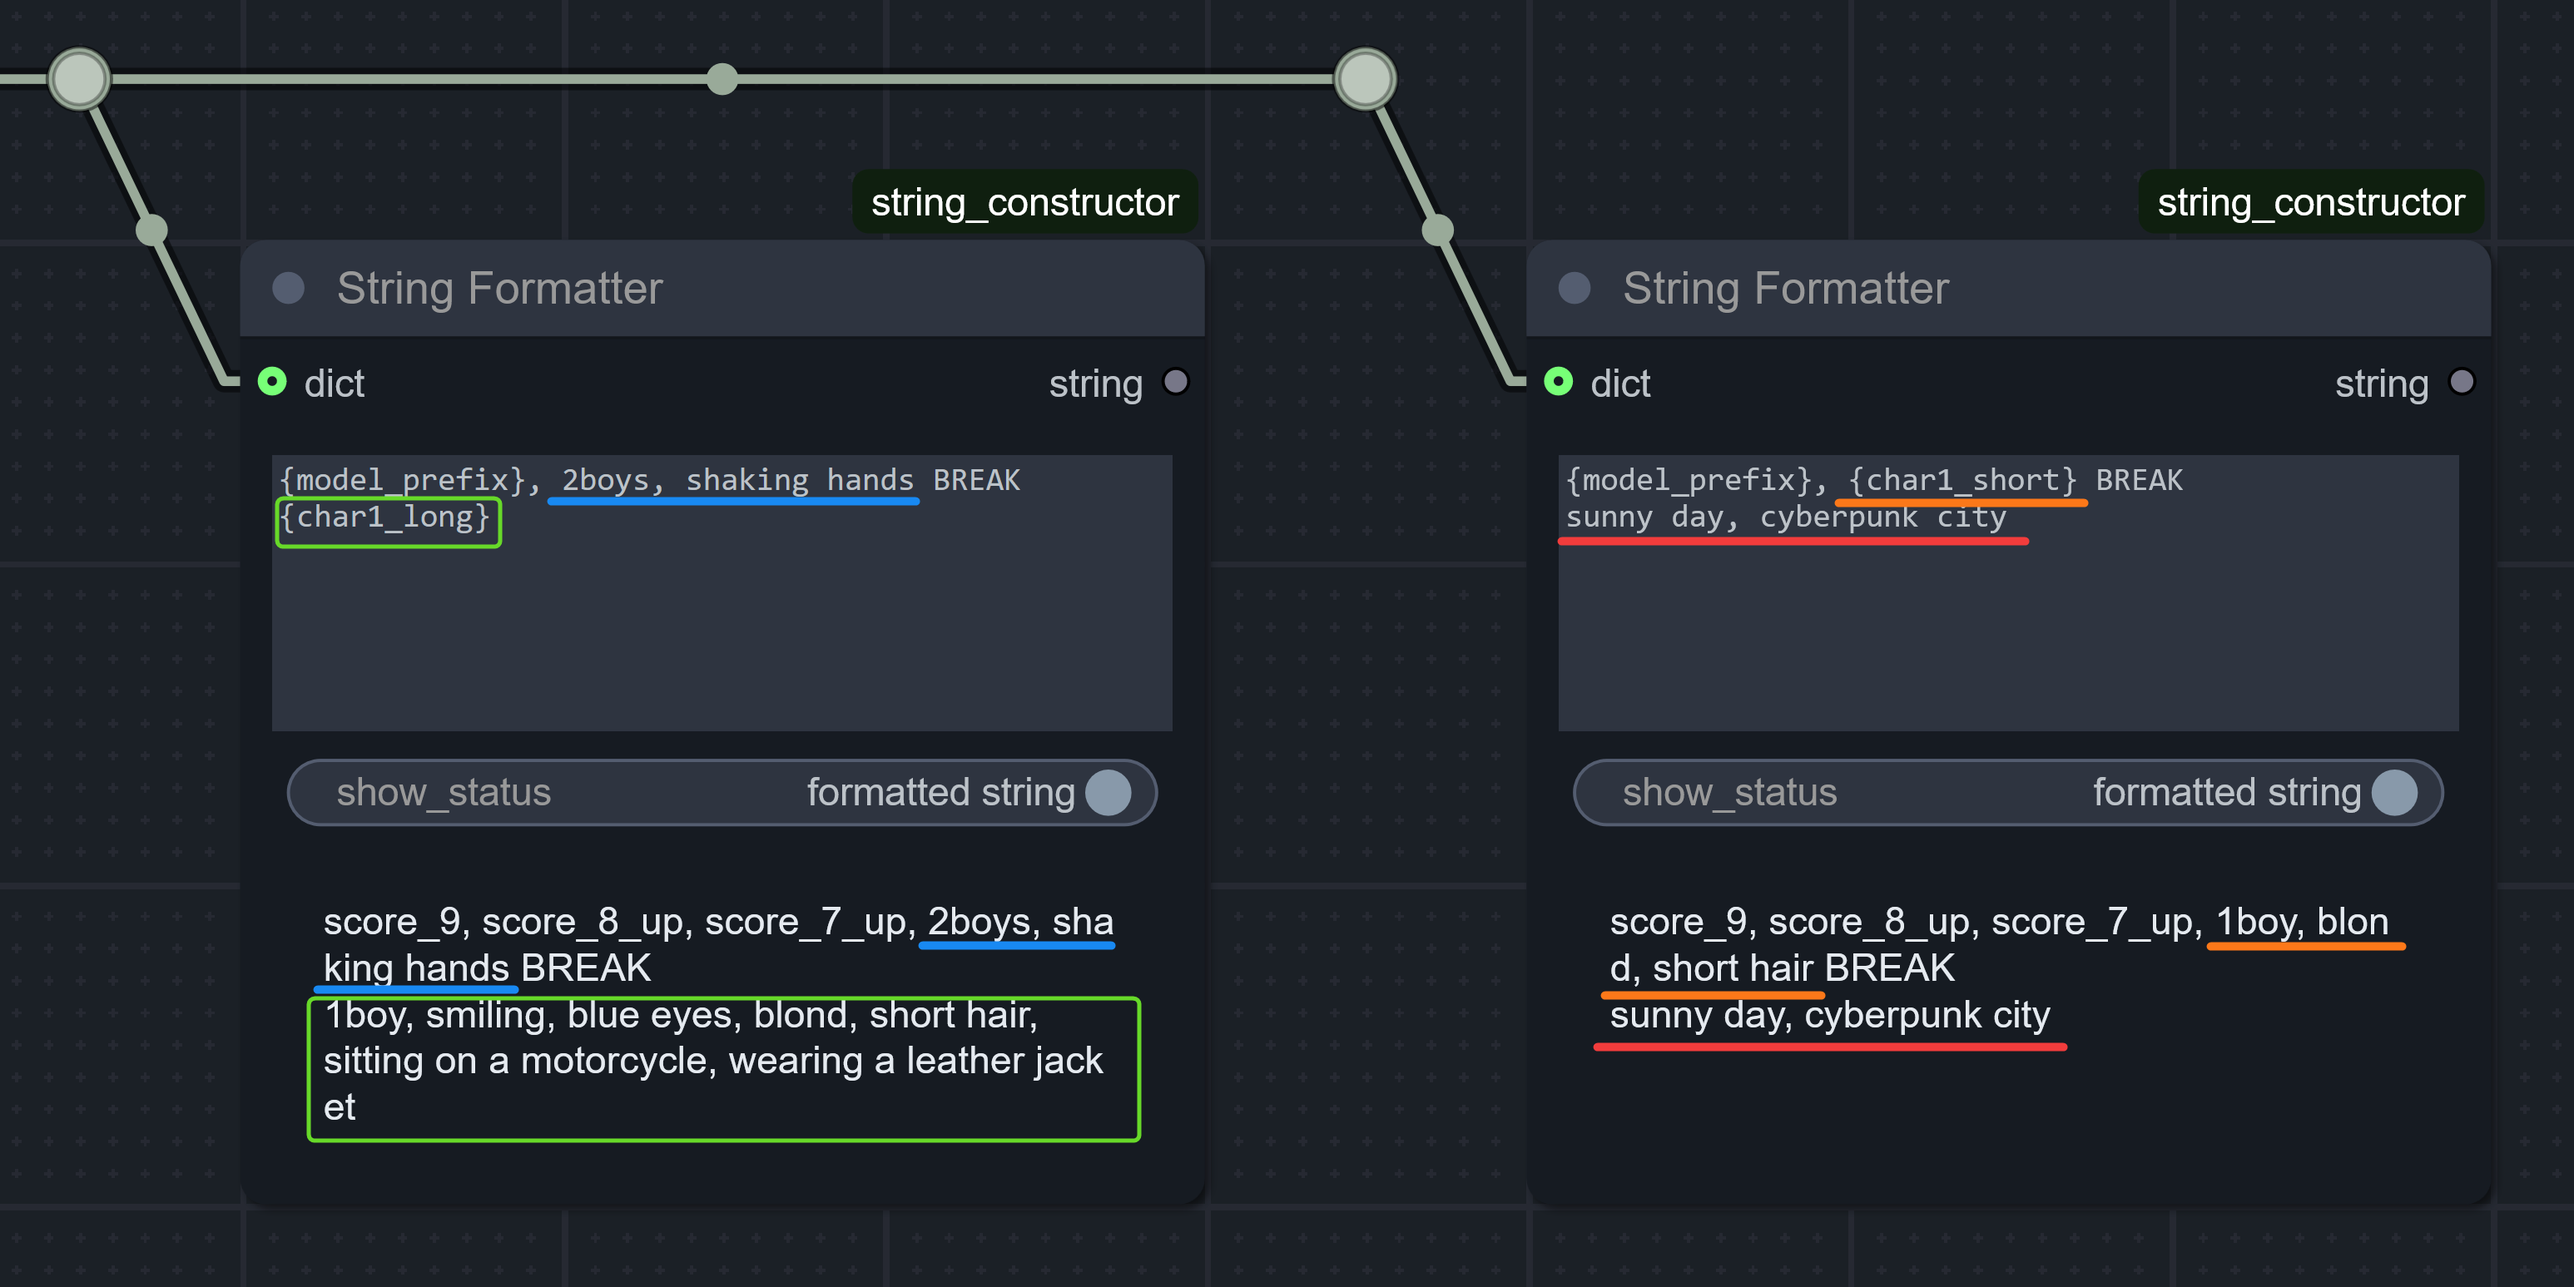
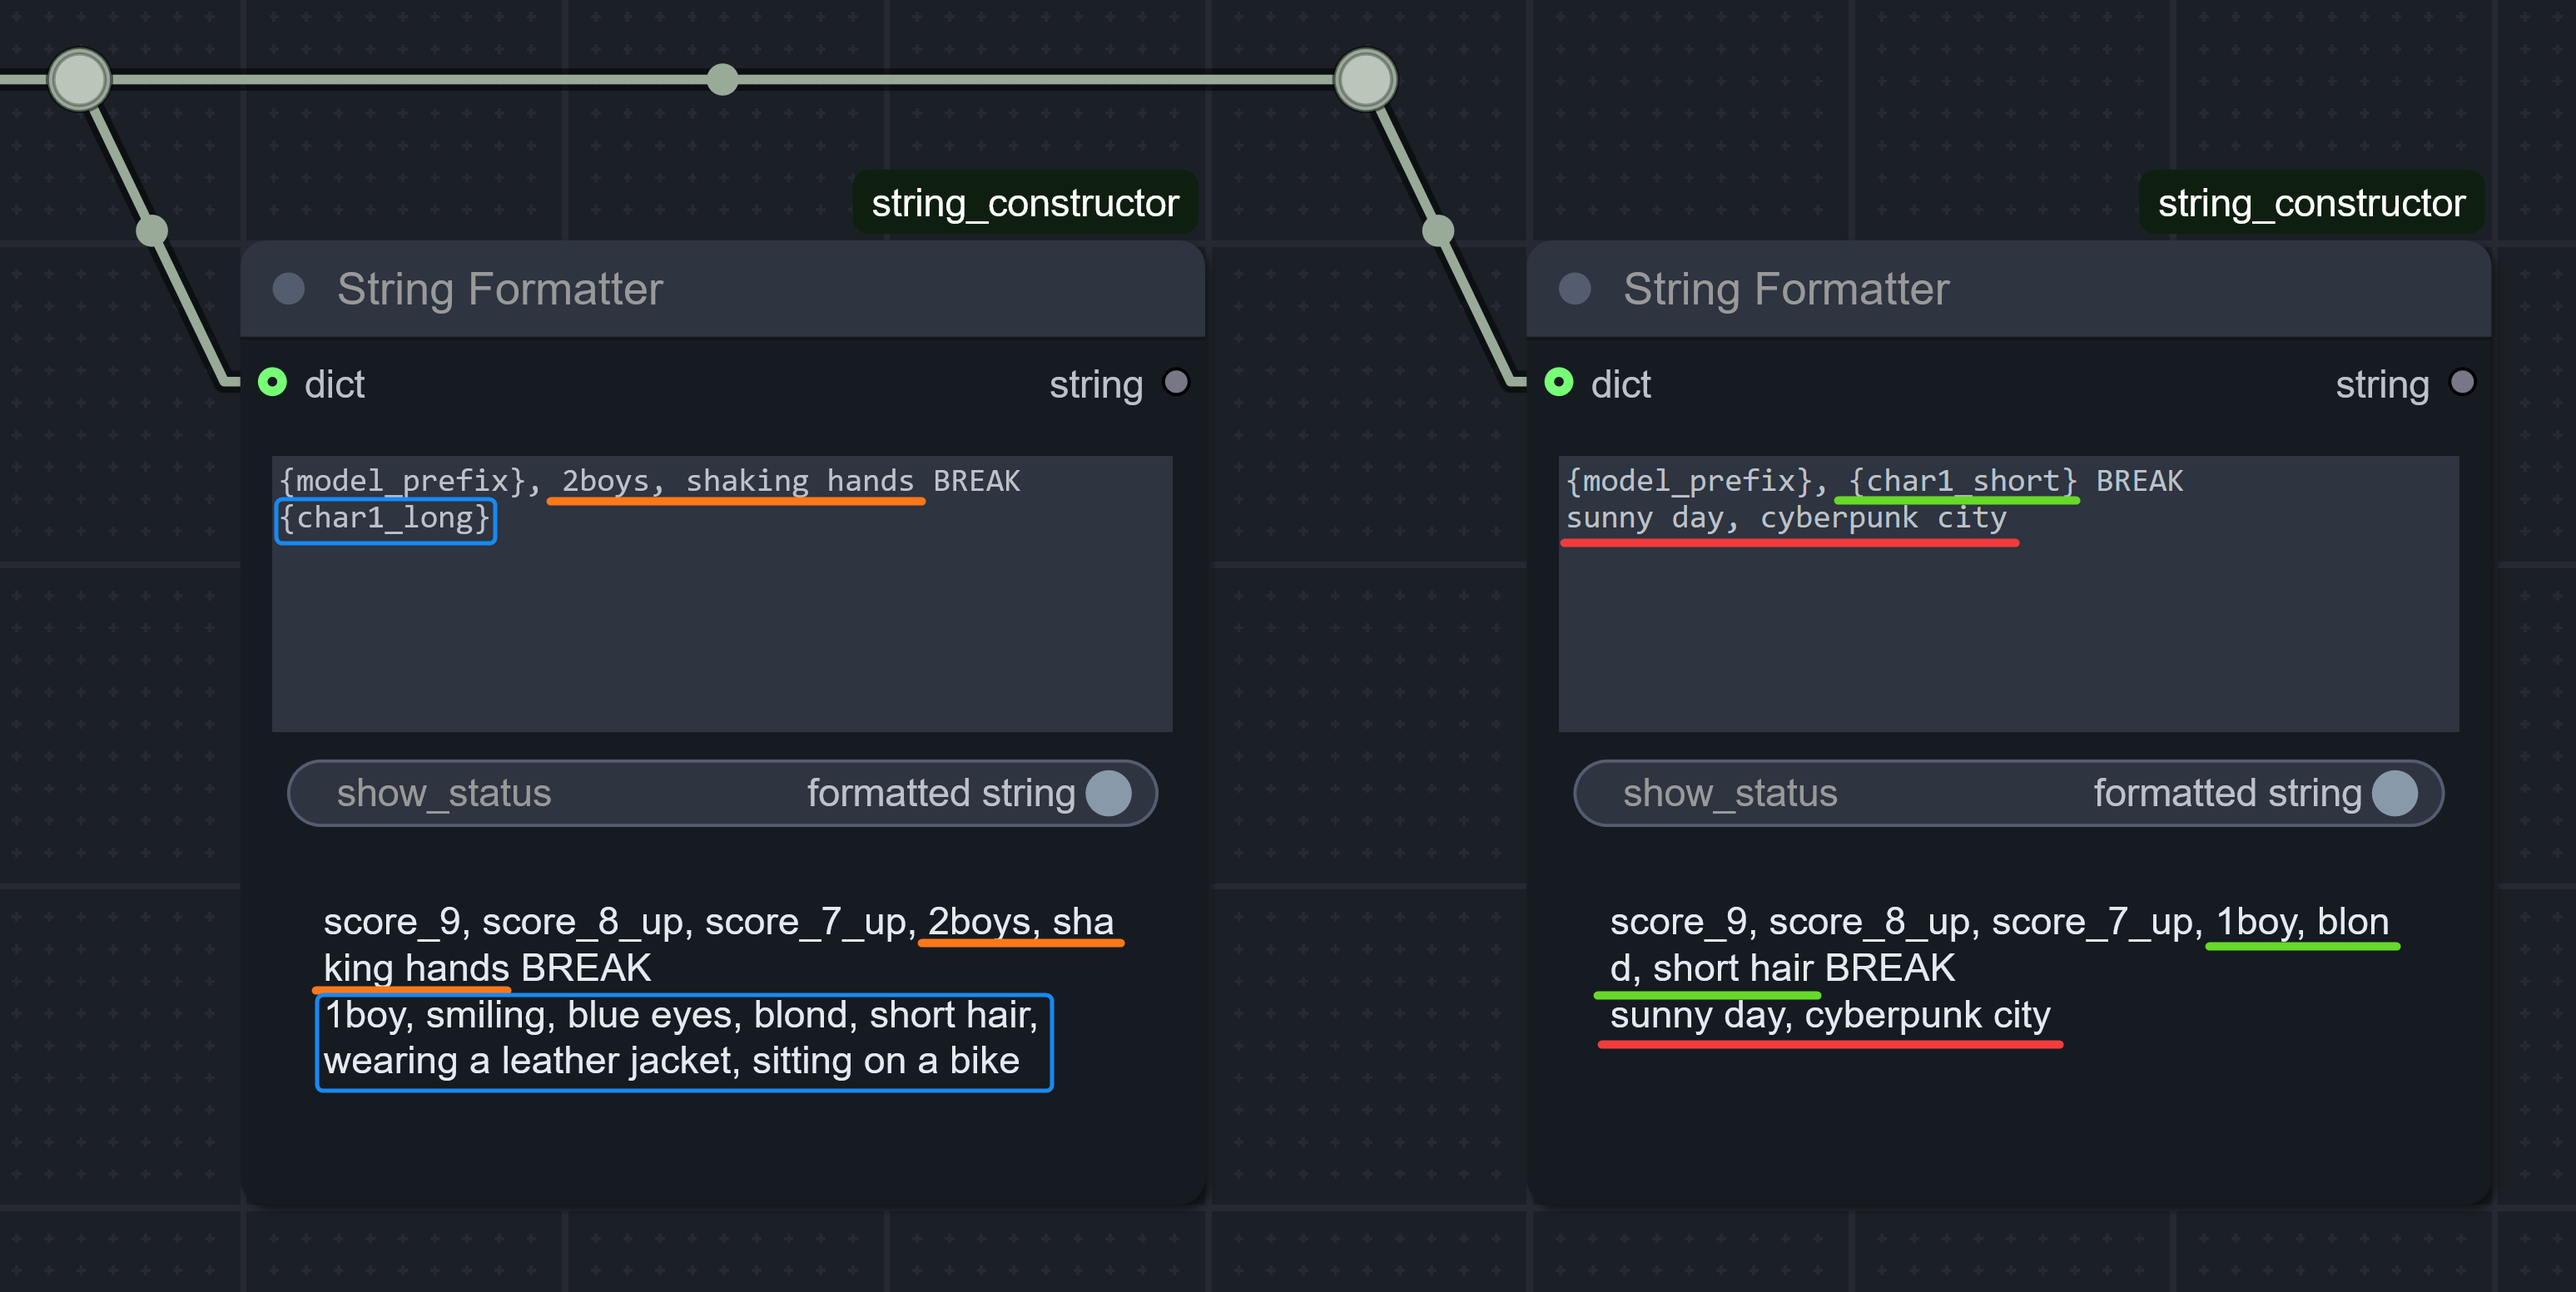
new example screenshots

diff --git a/README.md b/README.md
@@ -34,7 +34,7 @@ For example, in the screenshot shown above, this is the dictionary we get in the
 |----------------|--------------------------------------------|
 | `model_prefix` | <pre>score_9, score_8_up, score_7_up</pre> |
 | `char1_short`  | <pre>1boy, blond, short hair</pre>         |
-| `char1_long`   | <pre>1boy, smiling, blue eyes, blond, short hair,[NEW LINE HERE]<br>sitting on a motorcycle, wearing a leather jacket</pre> |
+| `char1_long`   | <pre>1boy, smiling, blue eyes, blond, short hair,[NEW LINE HERE]<br>wearing a leather jacket, sitting on a bike</pre> |
 
 And then, we can do **this** with the same input dictionary:
 
